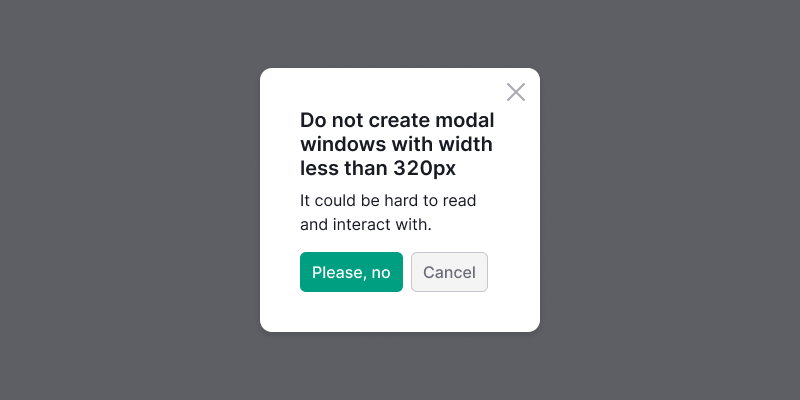
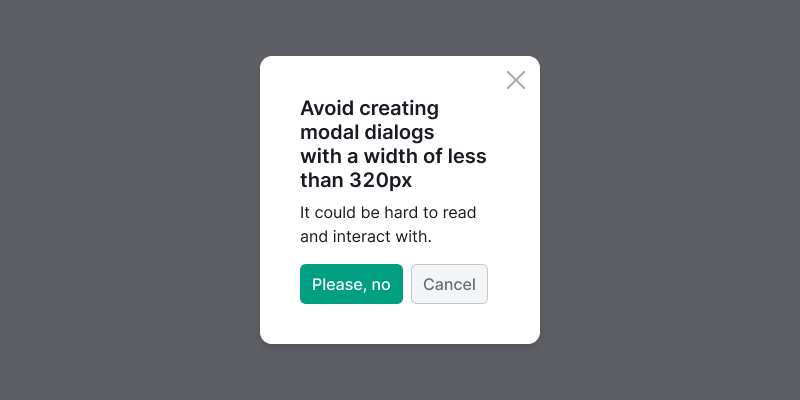
[docs] small fixes to Modal doc

Changed region(s): [[0.375, 0.24, 0.625, 0.78], [0.3125, 0.12, 0.6875, 0.24], [0.3125, 0.81, 0.6875, 0.87]]

diff --git a/website/docs/components/modal/modal.md b/website/docs/components/modal/modal.md
@@ -68,13 +68,13 @@ The modal must have `min-width` of 320px for the desktop version.
 
 ## Interaction
 
-### Opening a modal
+### Opening modal
 
 When user opens the modal, keyboard focus should automatically go to the content of the modal. If the modal contains a form, the focus must go to the first input or interactive element.
 
 ![](static/focus.png)
 
-### Opening a modal over another modal
+### Opening modal over another modal
 
 ::: tip
 Display a modal over another modal only if no other solution fits your case. Refer to the [amazing Manifesto](https://modalzmodalzmodalz.com/) against the ubiquitous use of modal dialogs.
@@ -87,12 +87,12 @@ When opening a second modal on top of another modal:
 
 Table: Overlay styles for Modal
 
-| Tokens                               | Appearance example                          |
-| ------------------------------------ | ------------------------------------------- |
-| Default overlay background color is `--overlay-primary`. | ![](static/modal-overlay.png)               |
-| Second overlay appears when opening a modal on top of another modal, using `--overlay-secondary` background. | ![](static/second-modal.png) |
+| Tokens                                                                                                       | Appearance example            |
+| ------------------------------------------------------------------------------------------------------------ | ----------------------------- |
+| Default overlay background color is `--overlay-primary`.                                                     | ![](static/modal-overlay.png) |
+| Second overlay appears when opening a modal on top of another modal, using `--overlay-secondary` background. | ![](static/second-modal.png)  |
 
-### Closing the modal
+### Closing modal
 
 User closes the modal by using the following options:
 
@@ -106,9 +106,9 @@ User closes the modal by using the following options:
 After the modal is closed, the focus should always return to the trigger.
 :::
 
-If the potential consequences of accidentally closing the modal are significant, please alert the user about the potential loss of information.
+If the potential consequences of accidentally closing the modal are significant, alert the user about the potential loss of information.
 
-It is recommended to save the information entered by the user when closing and reopening the modal. If it isn’t possible to do so, inform users that their entered data will be lost upon closing the modal.
+It's recommended to save the information entered by the user when closing and reopening the modal. If it isn’t possible to do so, inform users that their entered data will be lost upon closing the modal.
 
 ### Loading
 
@@ -159,7 +159,7 @@ Avoid using modal dialogs on mobile devices. However, if you use modals on mobil
 
 ![](static/position-5-2.png)
 
-## Scrolling the modal
+## Scrolling modal
 
 If the height of the modal exceeds the height of the browser window, it should be positioned with a 40px margin from the top border.
 
@@ -168,7 +168,7 @@ If the height of the modal exceeds the height of the browser window, it should b
 ![](static/scroll-1.png)
 ![](static/scroll-2.png)
 
-### Scrolling content in the modal
+### Scrolling content in modal
 
 Individual elements inside the modal, such as tables, can be scrolled. The scrolling functionality is described in [ScrollArea](/components/scroll-area/scroll-area).
 
@@ -201,4 +201,3 @@ It is advisable to limit the usage of main buttons within the modal to a maximum
 **Avoid labeling the main button with generic words such as "OK" or "Yes".** Users may require additional time to comprehend the required action if the buttons and their functions are not clearly designated.
 
 ![](static/button-yes-no.png)
-
